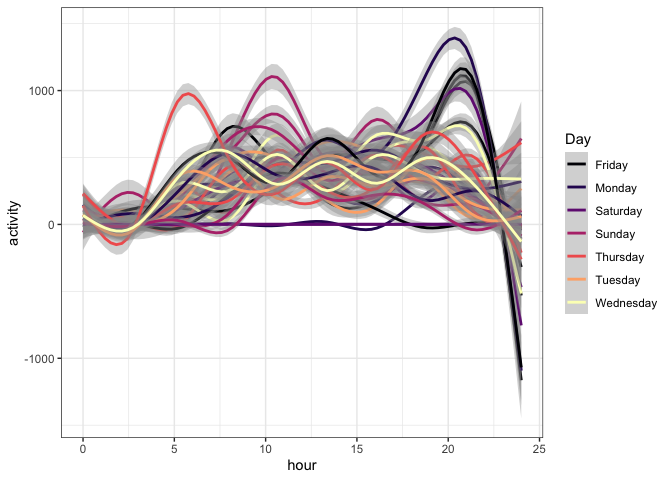
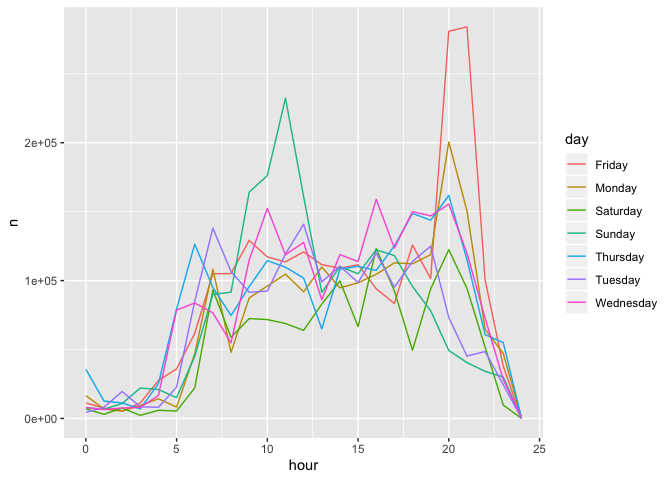
Added hour vs activity plot for #3

diff --git a/p8105_hw3_at3343.md b/p8105_hw3_at3343.md
@@ -408,37 +408,12 @@ We next plot activity as a function of the minute of each hour of the
 day.
 
 ``` r
-accel_data %>% 
+  accel_data %>% 
   mutate(hour = minute %/% 60) %>% 
-ggplot(aes(x = hour, y = activity)) +
-  geom_smooth(aes(group = day_id, color = day)) +
-  viridis::scale_color_viridis(name = "Day", 
-    discrete = TRUE, 
-    option = "magma"
-  ) + 
-  theme_bw()
+  group_by(day, hour) %>% 
+  summarize(n = sum(activity)) %>% 
+  ggplot(aes(x = hour, y = n)) +
+    geom_line(aes(color = day))
 ```
-
-    ## `geom_smooth()` using method = 'gam' and formula 'y ~ s(x, bs = "cs")'
 
 ![](p8105_hw3_at3343_files/figure-gfm/unnamed-chunk-15-1.png)<!-- -->
-
-``` r
-accel_data %>% 
-  mutate
-```
-
-    ## # A tibble: 50,400 x 6
-    ##     week day_id day    minute activity wkday_wkend
-    ##    <int>  <int> <fct>   <dbl>    <dbl> <chr>      
-    ##  1     1      1 Friday      1     88.4 weekday    
-    ##  2     1      1 Friday      2     82.2 weekday    
-    ##  3     1      1 Friday      3     64.4 weekday    
-    ##  4     1      1 Friday      4     70.0 weekday    
-    ##  5     1      1 Friday      5     75.0 weekday    
-    ##  6     1      1 Friday      6     66.3 weekday    
-    ##  7     1      1 Friday      7     53.8 weekday    
-    ##  8     1      1 Friday      8     47.8 weekday    
-    ##  9     1      1 Friday      9     55.5 weekday    
-    ## 10     1      1 Friday     10     43.0 weekday    
-    ## # … with 50,390 more rows
